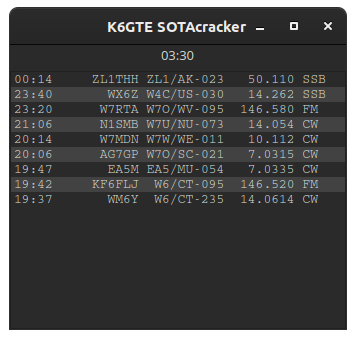
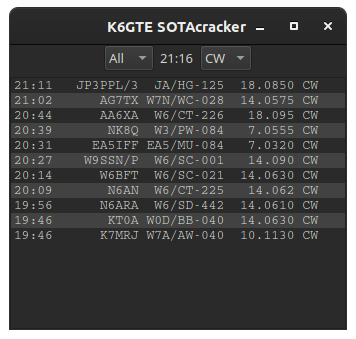
Updated docs

Changed region(s): [[0.2163, 0.118, 0.927, 0.708], [0.0309, 0.2065, 0.1545, 0.708]]

diff --git a/README.md b/README.md
@@ -2,7 +2,10 @@
 [![License: GPL v3](https://img.shields.io/badge/License-GPLv3-blue.svg)](https://www.gnu.org/licenses/gpl-3.0)  [![Python: 3.8+](https://img.shields.io/badge/python-3.8+-blue.svg)](https://www.python.org/downloads/)  [![Made With:PyQt5](https://img.shields.io/badge/Made%20with-PyQt5-red)](https://pypi.org/project/PyQt5/)
 
 ![soda cracker](https://github.com/mbridak/sotacracker/raw/main/pic/soda-cracker.png)
+
 Pulls latest SOTA spots. Displays them in a compact interface. If you have an instance of `rigctld` running, when you click on a spot your radio will automatically tune to the spotted frequency.
+
+Added dropdowns at the top of the screen to filter band and mode.
 
 Written in Python3, using QT5. Either run from source, or if your running Linux, download the binary [here](https://github.com/mbridak/sotacracker/releases/download/21.5.23/sotacracker)
 
